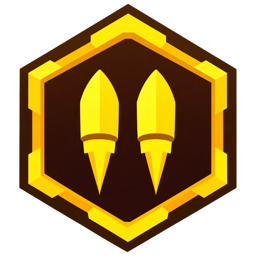
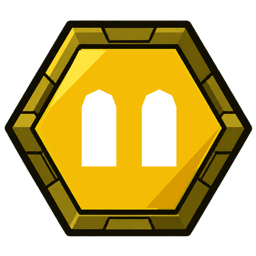
remove in-game edge frame (soft zone-color tint instead); new power-up badges (v3)
- Gameplay edge line removed: it got clipped by iPhone rounded corners and pulled the eye;
  replaced with a faint zone-colored gradient at the top and bottom edges
- Power-ups: new solid-color badges with bold white symbols (best readability at 40px)
- Archived previous versions in SOURCES/POWERUPS (badge-v1, capsule-v1, badge-v3 originals)

diff --git a/index.html b/index.html
@@ -2771,19 +2771,16 @@ function hudPanel(pts, glow) {
   ctx.stroke(); ctx.shadowBlur = 0;
 }
 // Ekran kenarı neon çerçevesi (oyun alanını sarar, dikkat dağıtmayacak kadar soluk)
-// Ekran kenarı neon çerçevesi: tek temiz çizgi; köşelerde parlak, kenar ortalarına doğru yumuşakça söner
+// Oyun sahnesi kenarı: çizgi yok (telefonun yuvarlak köşelerinde kesiliyordu ve dikkat dağıtıyordu).
+// Yerine üst ve alt kenarda bölge renginde çok hafif bir renk geçişi: atmosfer + arayüz arka plandan ayrışır.
 function drawScreenFrame() {
   ctx.save();
-  const m = 3, c = 18;
-  chamferPath(m, m, W - m * 2, H - m * 2, c);
-  // Dikey gradyan: üst ve alt (köşeler dahil) parlak, yan kenarların ortası soluk
-  const vg = ctx.createLinearGradient(0, 0, 0, H);
-  vg.addColorStop(0, HUD_COL); vg.addColorStop(0.12, HUD_COL + 'aa'); vg.addColorStop(0.35, HUD_COL + '33');
-  vg.addColorStop(0.65, HUD_COL + '33'); vg.addColorStop(0.88, HUD_COL + 'aa'); vg.addColorStop(1, HUD_COL);
-  ctx.strokeStyle = vg;
-  // yumuşak parıltı (aynı yol, kalın ve şeffaf) + net çizgi
-  ctx.lineWidth = 3; ctx.globalAlpha = 0.35; ctx.shadowColor = HUD_COL; ctx.shadowBlur = 10; ctx.stroke();
-  ctx.shadowBlur = 0; ctx.globalAlpha = 0.9; ctx.lineWidth = 1.2; ctx.stroke();
+  const top = ctx.createLinearGradient(0, 0, 0, 110);
+  top.addColorStop(0, HUD_COL + '2e'); top.addColorStop(1, HUD_COL + '00');
+  ctx.fillStyle = top; ctx.fillRect(0, 0, W, 110);
+  const bot = ctx.createLinearGradient(0, H - 120, 0, H);
+  bot.addColorStop(0, HUD_COL + '00'); bot.addColorStop(1, HUD_COL + '26');
+  ctx.fillStyle = bot; ctx.fillRect(0, H - 120, W, 120);
   ctx.restore();
 }
 function drawHUD() {

diff --git a/sw.js b/sw.js
@@ -1,4 +1,4 @@
-const CACHE = 'space-shooter-v9';
+const CACHE = 'space-shooter-v10';
 const ASSETS = ['./index.html', './manifest.json', './ASSETS/spaceship.png', './ASSETS/enemy1.png', './ASSETS/enemy2.png', './ASSETS/enemy3.png', './ASSETS/boss.png', './icon-192.png', './icon-512.png', './ASSETS/cards/deep-space.jpg', './ASSETS/cards/asteroid-belt.jpg', './ASSETS/cards/nebula.jpg', './ASSETS/cards/black-hole.jpg', './ASSETS/backgrounds/deep-space.jpg', './ASSETS/powerups/shield.png', './ASSETS/powerups/triple-shot.png', './ASSETS/powerups/double-shot.png', './ASSETS/powerups/bomb.png', './ASSETS/backgrounds/asteroid-belt.jpg', './ASSETS/backgrounds/nebula.jpg', './ASSETS/backgrounds/black-hole.jpg', './ASSETS/rocks/rock-small-1.png', './ASSETS/rocks/rock-small-2.png', './ASSETS/rocks/rock-small-3.png', './ASSETS/rocks/rock-medium-1.png', './ASSETS/rocks/rock-medium-2.png', './ASSETS/rocks/rock-medium-3.png', './ASSETS/rocks/rock-large-1.png', './ASSETS/rocks/rock-large-2.png', './ASSETS/rocks/rock-large-3.png'];
 
 self.addEventListener('install', e => {
